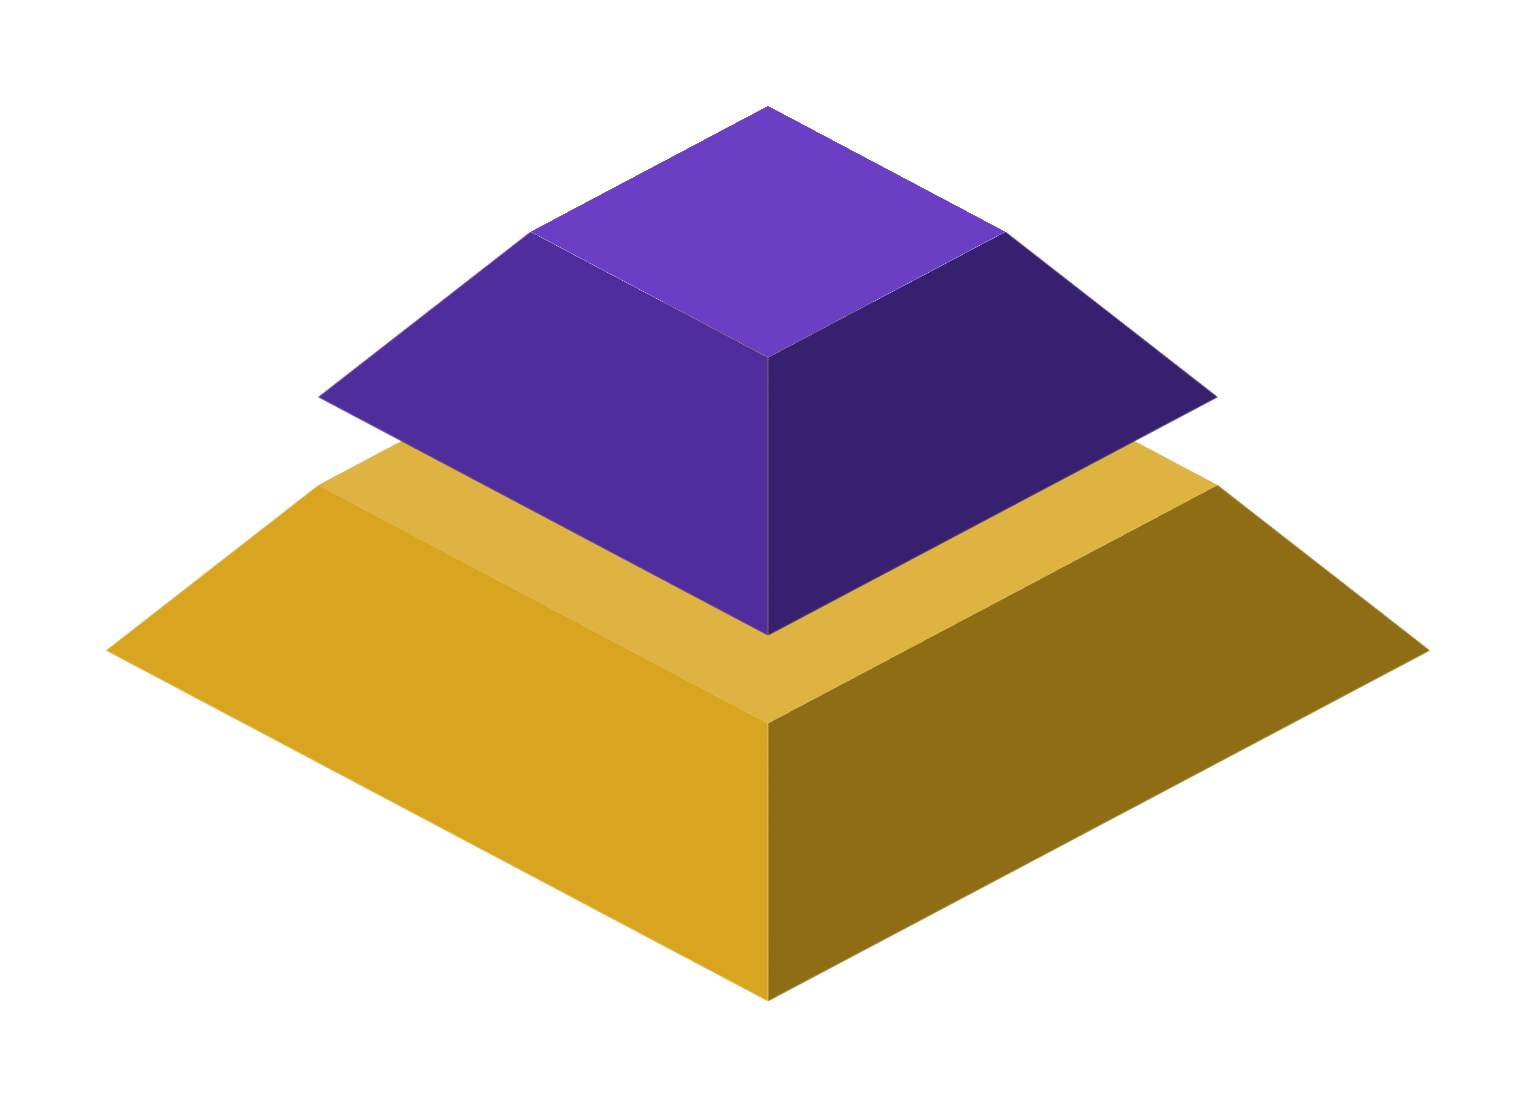
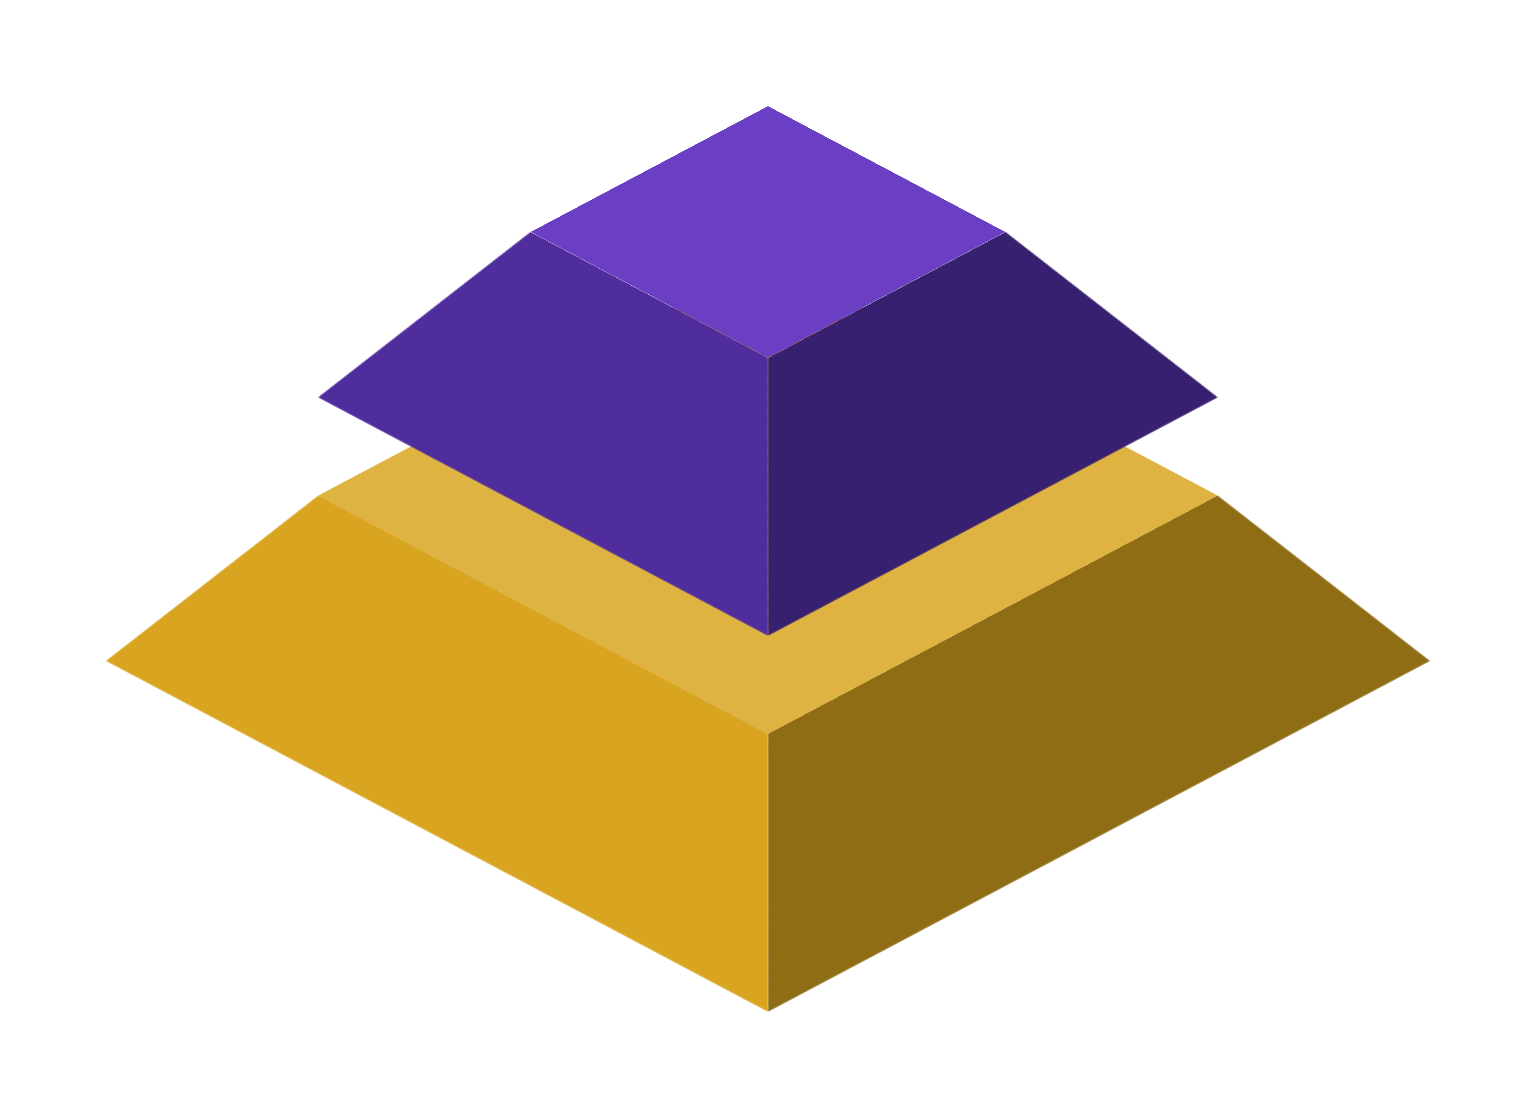
Cultural Materialism: Infrastructure, Structure, Superstructure (renamed throughout); its slabs as sections of a pyramid, keeping the opening split; card, downloads and CEM page 1 updated
Claude-Session: https://claude.ai/code/session_01LgHoU9QwZ5ZurXZhgzwbWe

diff --git a/diagram/index.html b/diagram/index.html
@@ -1931,31 +1931,37 @@
       --top: #6a3fc4; --left: #4f2d9c; --right: #37206f;
     }
 
+    /* Cultural Materialism's slabs are sections of a pyramid too, a little
+       steeper (each drawn in by half the step between them) */
+    .structures-view .st-block {
+      --taper: 0.83;
+    }
+
     /* Base-Superstructure's slabs as sections of a pyramid: each top drawn
        in by --tp on every side, and the front and side sloping down to the
        full footprint (the faces tilted and cut to trapezoids) */
-    .marx-view .st-block {
+    :is(.marx-view, .structures-view) .st-block {
       /* (one slope for every slab, the first that slides in included) */
-      --tp: calc(var(--h) * 0.77);
+      --tp: calc(var(--h) * var(--taper, 0.77));
       --slope: hypot(var(--h), var(--tp));
       --tilt: atan2(var(--h), var(--tp));
     }
 
-    .marx-view .st-block > .st-top {
+    :is(.marx-view, .structures-view) .st-block > .st-top {
       left: var(--tp) !important;
       top: var(--tp) !important;
       width: calc(var(--w) - 2 * var(--tp));
       height: calc(var(--d) - 2 * var(--tp));
     }
 
-    .marx-view .st-block > .st-front {
+    :is(.marx-view, .structures-view) .st-block > .st-front {
       top: calc(var(--d) - var(--tp)) !important;
       height: var(--slope);
       transform: translateZ(var(--h)) rotateX(calc(-1 * var(--tilt)));
       clip-path: polygon(var(--tp) 0, calc(100% - var(--tp)) 0, 100% 100%, 0 100%);
     }
 
-    .marx-view .st-block > .st-side {
+    :is(.marx-view, .structures-view) .st-block > .st-side {
       left: calc(var(--w) - var(--tp)) !important;
       width: var(--slope);
       transform: translateZ(var(--h)) rotateY(var(--tilt));
@@ -3857,8 +3863,8 @@
       </div>
     </section>
 
-    <section class="structures-view" aria-label="Cultural Materialism: Three Structures">
-    <div class="model-save-row"><a class="model-save" href="../assets/downloads/cultural-materialism.png?v=dcb1c1ec" download="Cultural Materialism - Three Structures.png"><svg viewBox="0 0 24 24" fill="none" stroke="currentColor" stroke-width="1.6" stroke-linecap="round" stroke-linejoin="round" aria-hidden="true"><path d="M4 15v3.5A1.5 1.5 0 0 0 5.5 20h13a1.5 1.5 0 0 0 1.5-1.5V15"/><g class="arrow"><path d="M12 4v11"/><path d="M8 11l4 4 4-4"/></g></svg><span>Download diagram</span></a></div>
+    <section class="structures-view" aria-label="Cultural Materialism: Infrastructure, Structure, Superstructure">
+    <div class="model-save-row"><a class="model-save" href="../assets/downloads/cultural-materialism.png?v=0369c5a2" download="Cultural Materialism - Infrastructure, Structure, Superstructure.png"><svg viewBox="0 0 24 24" fill="none" stroke="currentColor" stroke-width="1.6" stroke-linecap="round" stroke-linejoin="round" aria-hidden="true"><path d="M4 15v3.5A1.5 1.5 0 0 0 5.5 20h13a1.5 1.5 0 0 0 1.5-1.5V15"/><g class="arrow"><path d="M12 4v11"/><path d="M8 11l4 4 4-4"/></g></svg><span>Download diagram</span></a></div>
       <div class="stack-layout">
         <div class="stack-scene" aria-hidden="true"><div class="st-stack"></div></div>
         <div class="stack-side">
@@ -3873,7 +3879,7 @@
     <div class="structures-alt" role="figure" aria-label="Cultural Materialism, three structures: infrastructure, structure and superstructure"></div>
 
     <section class="marx-view" aria-label="Classical Marxism: Base-Superstructure">
-    <div class="model-save-row model-save-modes"><a class="model-save" href="../assets/downloads/base-superstructure.png?v=47aa479a" download="Classical Marxism - Base-Superstructure.png"><svg viewBox="0 0 24 24" fill="none" stroke="currentColor" stroke-width="1.6" stroke-linecap="round" stroke-linejoin="round" aria-hidden="true"><path d="M4 15v3.5A1.5 1.5 0 0 0 5.5 20h13a1.5 1.5 0 0 0 1.5-1.5V15"/><g class="arrow"><path d="M12 4v11"/><path d="M8 11l4 4 4-4"/></g></svg><span>Download diagram</span></a><div class="model-modes" role="group" aria-label="View"><button type="button" data-mode="stack" aria-pressed="true">Stack</button><button type="button" data-mode="diagram" aria-pressed="false">Diagram</button></div></div>
+    <div class="model-save-row model-save-modes"><a class="model-save" href="../assets/downloads/base-superstructure.png?v=3f9d90a3" download="Classical Marxism - Base-Superstructure.png"><svg viewBox="0 0 24 24" fill="none" stroke="currentColor" stroke-width="1.6" stroke-linecap="round" stroke-linejoin="round" aria-hidden="true"><path d="M4 15v3.5A1.5 1.5 0 0 0 5.5 20h13a1.5 1.5 0 0 0 1.5-1.5V15"/><g class="arrow"><path d="M12 4v11"/><path d="M8 11l4 4 4-4"/></g></svg><span>Download diagram</span></a><div class="model-modes" role="group" aria-label="View"><button type="button" data-mode="stack" aria-pressed="true">Stack</button><button type="button" data-mode="diagram" aria-pressed="false">Diagram</button></div></div>
       <div class="stack-layout">
         <div class="stack-scene" aria-hidden="true"><div class="st-stack"></div></div>
         <div class="stack-side">
@@ -4180,7 +4186,7 @@
           desc: 'Marx divides a society into two layers: its economic base, the forces and relations of production, and the legal, political and ideological superstructure that rises on it. The base conditions the superstructure &ndash; &ldquo;it is not the consciousness of men that determines their being, but their social being that determines their consciousness&rdquo; &ndash; and as the base changes, the superstructure is transformed with it.'
         },
         structures: {
-          title: 'Cultural Materialism: Three Structures',
+          title: 'Cultural Materialism: Infrastructure, Structure, Superstructure',
           desc: 'Every society can be read as three interacting layers: its infrastructure, the technologies and material systems through which it meets its needs; its structure, the institutions of political economy that organise power and exchange; and its superstructure, the shared values, beliefs and cultural psychology of its people. A change in any layer pressures the others, but the deepest and most durable shifts begin in the infrastructure &ndash; which is why each new tech stack remakes the layers above it.'
         }
       };
@@ -4508,7 +4514,7 @@
             detail: '<p class="st-detail-name st-detail-name-only">' + L.name + '<span class="name-sep">:</span> ' + L.aka + '</p>' +
               '<p class="st-detail-def">' + L.def + '</p>'
           };
-        }), { SIZE: 250, H: 36, TRIM: 34, STEP: 700, prelude: { n: structuresFromStack ? 4 : 1, SIZE: 250, H: 44, TRIM: 30, STEP: 520 } });
+        }), { SIZE: 250, H: 36, TRIM: 60, STEP: 700, prelude: { n: structuresFromStack ? 4 : 1, SIZE: 250, H: 44, TRIM: 30, STEP: 520, taper: 0.83 } });
       }
       // the alternative view of the structures: the three layers, one above
       // the other, and how each acts on its neighbour
@@ -5631,7 +5637,7 @@
         ['exoendo', 'Exo-Endo Structure', 'Exo-Endo Structure', 'Human agency at the centre of the civilisational structures, each both extended outward from it and internalised by it.'],
         ['emergence', 'Emergence Model', 'The Emergence Model', 'Superstructure, physiologic structure, social structure and infrastructure, set in the four quadrants of a disc.'],
         ['integral', 'Four Quadrants', 'Integral Model: Four Quadrants', 'Interior and exterior, individual and collective: four views of any whole that arise together, none reducible to the others.'],
-        ['structures', 'The Structures', 'Cultural Materialism: Three Structures', 'Infrastructure, social structure and superstructure, and how each acts on the others.'],
+        ['structures', 'The Structures', 'Cultural Materialism: Infrastructure, Structure, Superstructure', 'Infrastructure, social structure and superstructure, and how each acts on the others.'],
         ['marx', 'Base-Superstructure', 'Classical Marxism: Base-Superstructure', 'The economic base and the legal, political and ideological superstructure that rises on it, and how each acts on the other.']
       ];
       // an isometric slab, centred at (x, y), w across and h thick
@@ -5658,7 +5664,10 @@
           return '<g style="--top:color-mix(in srgb, ' + c + ' 85%, #fff);--left:' + c + ';--right:color-mix(in srgb, ' + c + ' 64%, #000)">' + ovSlab(x, y, w, h) + '</g>';
         };
         var MIDNIGHT = '#1f2f8a', GOLD = '#d9a520', VIOLET = '#6a3fc4';
-        if (key === 'structures') [[150, 120, MIDNIGHT], [124, 86, GOLD], [98, 56, VIOLET]].forEach(function (s) { g += cemSlab(s[2], 150, s[1], s[0], 11); });
+        if (key === 'structures') {
+          var frs = function (c, y, w, h, t) { return '<g style="--top:color-mix(in srgb, ' + c + ' 85%, #fff);--left:' + c + ';--right:color-mix(in srgb, ' + c + ' 64%, #000)">' + ovFrustum(150, y, w, h, t) + '</g>'; };
+          g += frs(MIDNIGHT, 118, 160, 14, 18) + frs(GOLD, 92, 124, 14, 18) + frs(VIOLET, 66, 88, 14, 18);
+        }
         if (key === 'marx') {
           var fr = function (c, y, w, h, t) { return '<g style="--top:color-mix(in srgb, ' + c + ' 85%, #fff);--left:' + c + ';--right:color-mix(in srgb, ' + c + ' 64%, #000)">' + ovFrustum(150, y, w, h, t) + '</g>'; };
           g += fr(GOLD, 104, 160, 22, 24) + fr(VIOLET, 66, 112, 22, 24);

diff --git a/model/index.html b/model/index.html
@@ -1398,7 +1398,7 @@
        page draws them, each leading to its model, in a row above the title:
        Cultural Materialism, the Four Quadrants and the Emergence Model -->
   <div class="md-corners">
-    <a class="md-corner md-corner-bl md-corner-small" href="../diagram/#structures" aria-label="Cultural Materialism: Three Structures"><img src="../assets/models/cultural-materialism.png?v=fa7afe8f" alt="" width="708" decoding="async"><span class="md-corner-label">Cultural Materialism: Three Structures</span></a>
+    <a class="md-corner md-corner-bl md-corner-small" href="../diagram/#structures" aria-label="Cultural Materialism: Infrastructure, Structure, Superstructure"><img src="../assets/models/cultural-materialism.png?v=a9a1d0ec" alt="" width="708" decoding="async"><span class="md-corner-label">Cultural Materialism:<br>Infrastructure, Structure,<br>Superstructure</span></a>
     <a class="md-corner md-corner-top" href="../diagram/#four-quadrants" aria-label="Integral Model: Four Quadrants"><img src="../assets/models/integral.png?v=49a60a9f" alt="" width="800" decoding="async"><span class="md-corner-label">Integral Model: Four Quadrants</span></a>
     <a class="md-corner md-corner-br" href="../diagram/#emergence-model" aria-label="The Emergence Model"><img src="../assets/models/emergence.png?v=db003d34" alt="" width="800" decoding="async"><span class="md-corner-label">The Emergence Model</span></a>
   </div>
@@ -1822,7 +1822,7 @@
         r.selectNodeContents(title);
         var t = r.getBoundingClientRect(), i = intro.getBoundingClientRect(), y = window.scrollY;
         // as tall as fits beneath the menu, with room for the names
-        var LABEL = 28;
+        var LABEL = 60;
         // (Cultural Materialism smaller than the other two)
         var h = Math.min(240, t.top + y - GAP - 96 - LABEL);
         corners.style.setProperty('--c-h', Math.max(90, h) + 'px');

diff --git a/timeline/index.html b/timeline/index.html
@@ -1231,7 +1231,7 @@
 
       <li class="era" id="cultural-materialism" data-short="Harris" data-summary="Harris divides every society into infrastructure, structure and superstructure, and argues that the material conditions of production and reproduction are the primary drivers of cultural change. It is the source of the Emergence Model’s three layers, and of the priority it gives to infrastructure.">
         <p class="era-date">1979</p>
-        <h2 class="era-name"><a href="#cultural-materialism">Cultural Materialism: Three Structures</a></h2>
+        <h2 class="era-name"><a href="#cultural-materialism">Cultural Materialism: Infrastructure, Structure, Superstructure</a></h2>
         <p class="era-stack">Marvin Harris, <em>Cultural Materialism: The Struggle for a Science of Culture</em> (1979)</p>
         <p class="era-note">Harris divides every society into infrastructure, structure and superstructure, and argues that the material conditions of production and reproduction are the primary drivers of cultural change. It is the source of the Emergence Model&rsquo;s three layers, and of the priority it gives to infrastructure.</p>
         <dl class="era-aspects">
